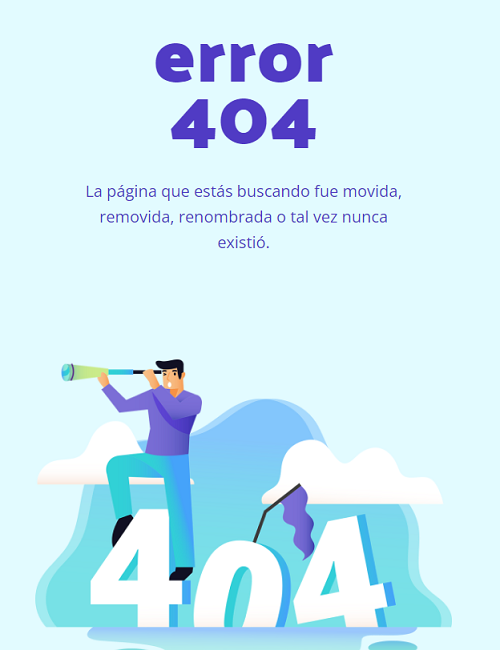
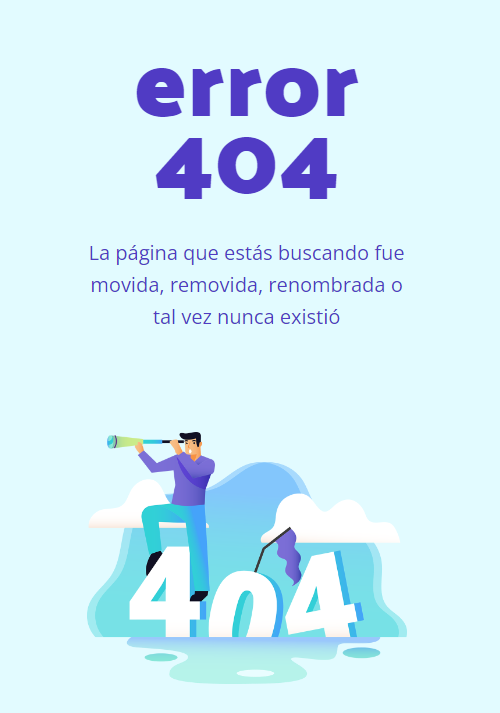
Se trabaja en error 404 page

Changed region(s): [[0.06, 0.5538, 0.9, 1.0], [0.15, 0.0615, 0.81, 0.4615]]

diff --git a/styles/styles_copy.css b/styles/styles_copy.css
@@ -309,11 +309,12 @@ form .btn-customized {
     margin-right: 10% !important;
   }
   .wrapper_error {
-    background: url("../../images/error-mobile.png") no-repeat center center fixed;
-    -webkit-background-size: cover;
-    -moz-background-size: cover;
-    -o-background-size: cover;
-    background-size: cover;
+    background: url("/images/error-mobile.png") no-repeat center center fixed;
+    -webkit-background-size: contain;
+    -moz-background-size: contain;
+    -o-background-size: contain;
+    background-color: #e2fbff;
+    background-size: contain;
     overflow-x: hidden;
   }
 }
@@ -326,15 +327,42 @@ form .btn-customized {
     margin-left: 10% !important;
     margin-right: 10% !important;
   }
+  .wrapper_error {
+    background: url("../../images/error-mobile.png") no-repeat center center fixed;
+    -webkit-background-size: contain;
+    -moz-background-size: contain;
+    -o-background-size: contain;
+    background-color: #e2fbff;
+    background-size: contain;
+    overflow-x: hidden;
+  }
 }
 @media only screen and (min-width: 766px) and (max-width: 768px) {
   .imagen_nosotros {
     display: none !important;
   }
+  .wrapper_error {
+    background: url("../../images/error-tablet.png") no-repeat center center fixed;
+    -webkit-background-size: contain;
+    -moz-background-size: contain;
+    -o-background-size: contain;
+    background-color: #e2fbff;
+    background-size: contain;
+    overflow-x: hidden;
+  }
 }
 @media only screen and (width: 768px) {
   .imagen_nosotros {
     display: inline-block !important;
+  }
+  .wrapper_error {
+    background: url("../../images/error-tablet.png") no-repeat center center fixed;
+    -webkit-background-size: contain;
+    -moz-background-size: contain;
+    -o-background-size: contain;
+    background-color: #e2fbff;
+    background-size: contain;
+    overflow-x: hidden;
   }
 }
 @media only screen and (min-width: 768px) and (max-width: 992px) {
@@ -353,6 +381,15 @@ form .btn-customized {
   .nosotros-p {
     font-size: 2vh;
     margin-left: 40%;
+  }
+  .wrapper_error {
+    background: url("../../images/error-desktop.png") no-repeat center center fixed;
+    -webkit-background-size: contain;
+    -moz-background-size: contain;
+    -o-background-size: contain;
+    background-color: #e2fbff;
+    background-size: contain;
+    overflow-x: hidden;
   }
 }
 @media only screen and (min-width: 992px) {
@@ -375,6 +412,15 @@ form .btn-customized {
   .font-curso p {
     font-size: medium;
   }
+  .wrapper_error {
+    background: url("../../images/error-desktop.png") no-repeat center center fixed;
+    -webkit-background-size: contain;
+    -moz-background-size: contain;
+    -o-background-size: contain;
+    background-color: #e2fbff;
+    background-size: contain;
+    overflow-x: hidden;
+  }
 }
 @media only screen and (min-width: 992px) and (max-width: 1200px) {
   .img-2 {
@@ -384,6 +430,15 @@ form .btn-customized {
 @media only screen and (max-width: 1400px) {
   .font-curso p {
     font-size: small;
+  }
+  .wrapper_error {
+    background: url("../../images/error-desktop.png") no-repeat center center fixed;
+    -webkit-background-size: contain;
+    -moz-background-size: contain;
+    -o-background-size: contain;
+    background-color: #e2fbff;
+    background-size: contain;
+    overflow-x: hidden;
   }
 }
 

diff --git a/SCSS/base/_mediaqueries.scss b/SCSS/base/_mediaqueries.scss
@@ -24,12 +24,13 @@
   }
 
   .wrapper_error {
-    background: url("../../images/error-mobile.png") no-repeat center center fixed;
-    -webkit-background-size: cover;
-    -moz-background-size: cover;
-    -o-background-size: cover;
-    background-size: cover;
-    overflow-x: hidden;
+    background: url("/images/error-mobile.png") no-repeat center center fixed;
+    -webkit-background-size: contain;
+    -moz-background-size: contain;
+    -o-background-size: contain;
+    background-color: rgba($color: #e2fbff, $alpha: 1.0);
+    background-size: contain;
+    overflow-x: hidden;       
   }
 
 }
@@ -45,11 +46,31 @@
     margin-left: 10% !important;
     margin-right: 10% !important;
   }
+
+  .wrapper_error {
+    background: url("../../images/error-mobile.png") no-repeat center center fixed;
+    -webkit-background-size: contain;
+    -moz-background-size: contain;
+    -o-background-size: contain;
+    background-color: rgba($color: #e2fbff, $alpha: 1.0);
+    background-size: contain;
+    overflow-x: hidden;       
+  }
 }
 
 @media only screen and (min-width: $screen-sm-high) and (max-width: $screen-md-min-sup) {
   .imagen_nosotros {
     display: none !important;
+  }
+
+  .wrapper_error {
+    background: url("../../images/error-tablet.png") no-repeat center center fixed;
+    -webkit-background-size: contain;
+    -moz-background-size: contain;
+    -o-background-size: contain;
+    background-color: rgba($color: #e2fbff, $alpha: 1.0);
+    background-size: contain;
+    overflow-x: hidden;       
   }
 }
 
@@ -57,6 +78,17 @@
   .imagen_nosotros {
     display: inline-block !important;
   }
+
+  .wrapper_error {
+    background: url("../../images/error-tablet.png") no-repeat center center fixed;
+    -webkit-background-size: contain;
+    -moz-background-size: contain;
+    -o-background-size: contain;
+    background-color: rgba($color: #e2fbff, $alpha: 1.0);
+    background-size: contain;
+    overflow-x: hidden;       
+  }
+
 }
 
 
@@ -80,6 +112,16 @@
   .nosotros-p {
     font-size: 2vh;
     margin-left: 40%;
+  }
+
+  .wrapper_error {
+    background: url("../../images/error-desktop.png") no-repeat center center fixed;
+    -webkit-background-size: contain;
+    -moz-background-size: contain;
+    -o-background-size: contain;
+    background-color: rgba($color: #e2fbff, $alpha: 1.0);
+    background-size: contain;
+    overflow-x: hidden;       
   }
 
 }
@@ -112,6 +154,15 @@
     }
   }
 
+  .wrapper_error {
+    background: url("../../images/error-desktop.png") no-repeat center center fixed;
+    -webkit-background-size: contain;
+    -moz-background-size: contain;
+    -o-background-size: contain;
+    background-color: rgba($color: #e2fbff, $alpha: 1.0);
+    background-size: contain;
+    overflow-x: hidden;       
+  }
 
 }
 
@@ -127,5 +178,14 @@
     p {
       font-size: small;
     }
+  }
+  .wrapper_error {
+    background: url("../../images/error-desktop.png") no-repeat center center fixed;
+    -webkit-background-size: contain;
+    -moz-background-size: contain;
+    -o-background-size: contain;
+    background-color: rgba($color: #e2fbff, $alpha: 1.0);
+    background-size: contain;
+    overflow-x: hidden;       
   }
 }

diff --git a/SCSS/main.scss b/SCSS/main.scss
@@ -12,4 +12,5 @@
 @import './views/contacto';
 @import './views/nosotros';
 @import './views/asociarse';
+@import './views/errorpage';
 @import './base/mediaqueries';
